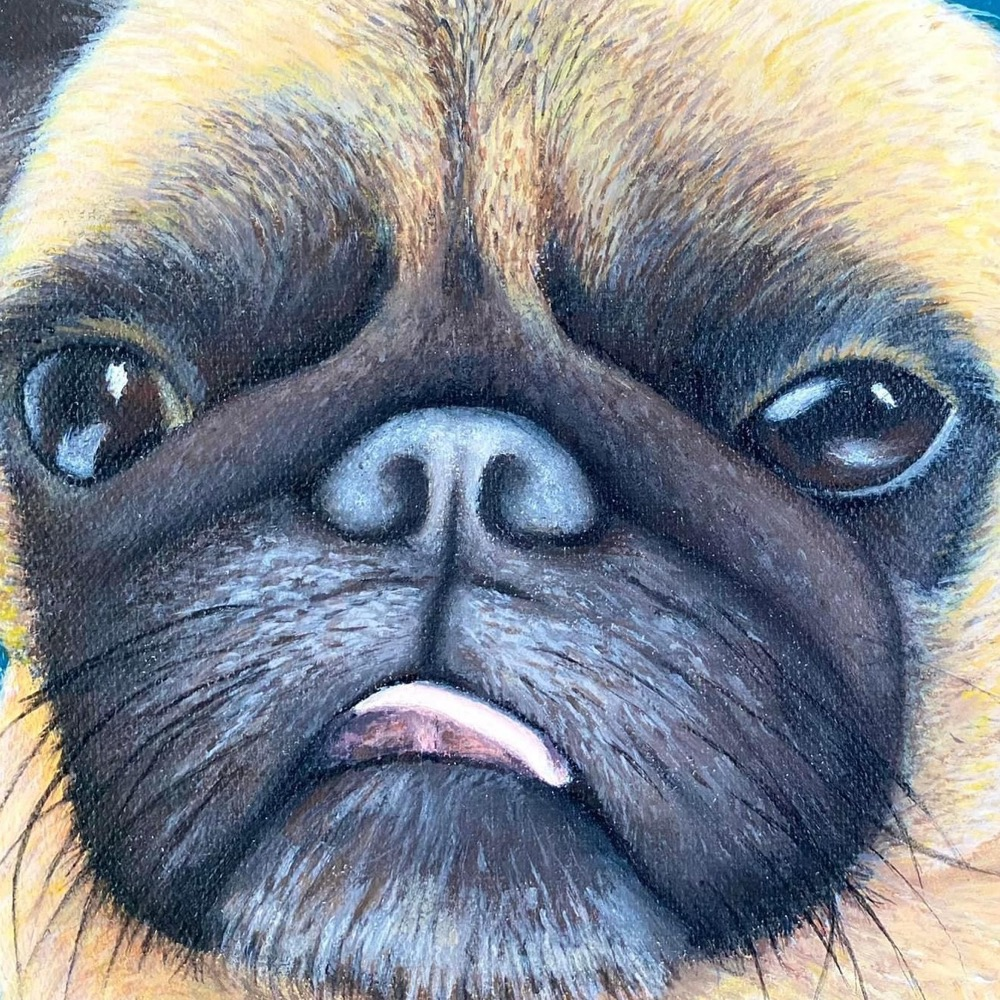
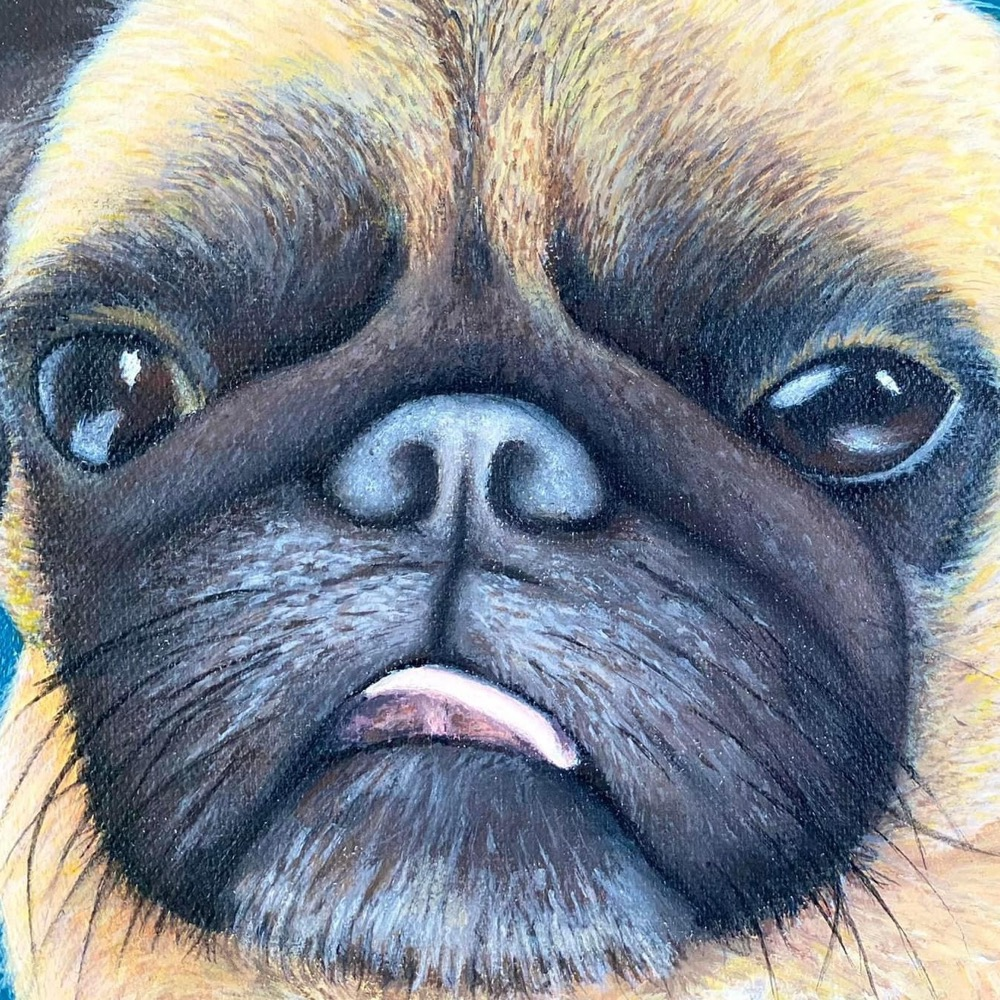
Enlarge header tagline, recrop pet portraits cover, update studio photo

diff --git a/frontend/src/components/Navbar.tsx b/frontend/src/components/Navbar.tsx
@@ -99,7 +99,7 @@ const Navbar = () => {
           }}
         >
           <Box component="img" src="/images/design/logo-wordmark.png" alt="ThaoTruong Art" sx={{ width: { xs: 180, md: 250 }, height: 'auto' }} />
-          <Box component="img" src="/images/design/logo-tagline.png" alt="Joyful Art Getaway" sx={{ width: { xs: 150, md: 200 }, height: 'auto', mt: 0.25, transform: 'translateX(-5%)' /* image has extra left padding; centre the text under the wordmark */ }} />
+          <Box component="img" src="/images/design/logo-tagline.png" alt="Joyful Art Getaway" sx={{ width: { xs: 168, md: 230 }, height: 'auto', mt: 0.25, transform: 'translateX(-5%)' /* image has extra left padding; centre the text under the wordmark */ }} />
         </Box>
 
         {isMobile ? (

diff --git a/frontend/src/pages/Home.tsx b/frontend/src/pages/Home.tsx
@@ -173,7 +173,7 @@ const JoyfulGetaway = () => (
           src="/images/design/studio-bruno.jpg"
           alt="Thao painting in her studio with Bruno"
           loading="lazy"
-          sx={{ width: '100%', maxWidth: 480, mx: 'auto', aspectRatio: '4 / 5', objectFit: 'cover', borderRadius: imageRadius, boxShadow: softShadow }}
+          sx={{ width: '100%', maxWidth: 480, mx: 'auto', aspectRatio: '4 / 5', objectFit: 'cover', borderRadius: imageRadius, boxShadow: softShadow}}
         />
       </AnimatedSection>
     </Container>
